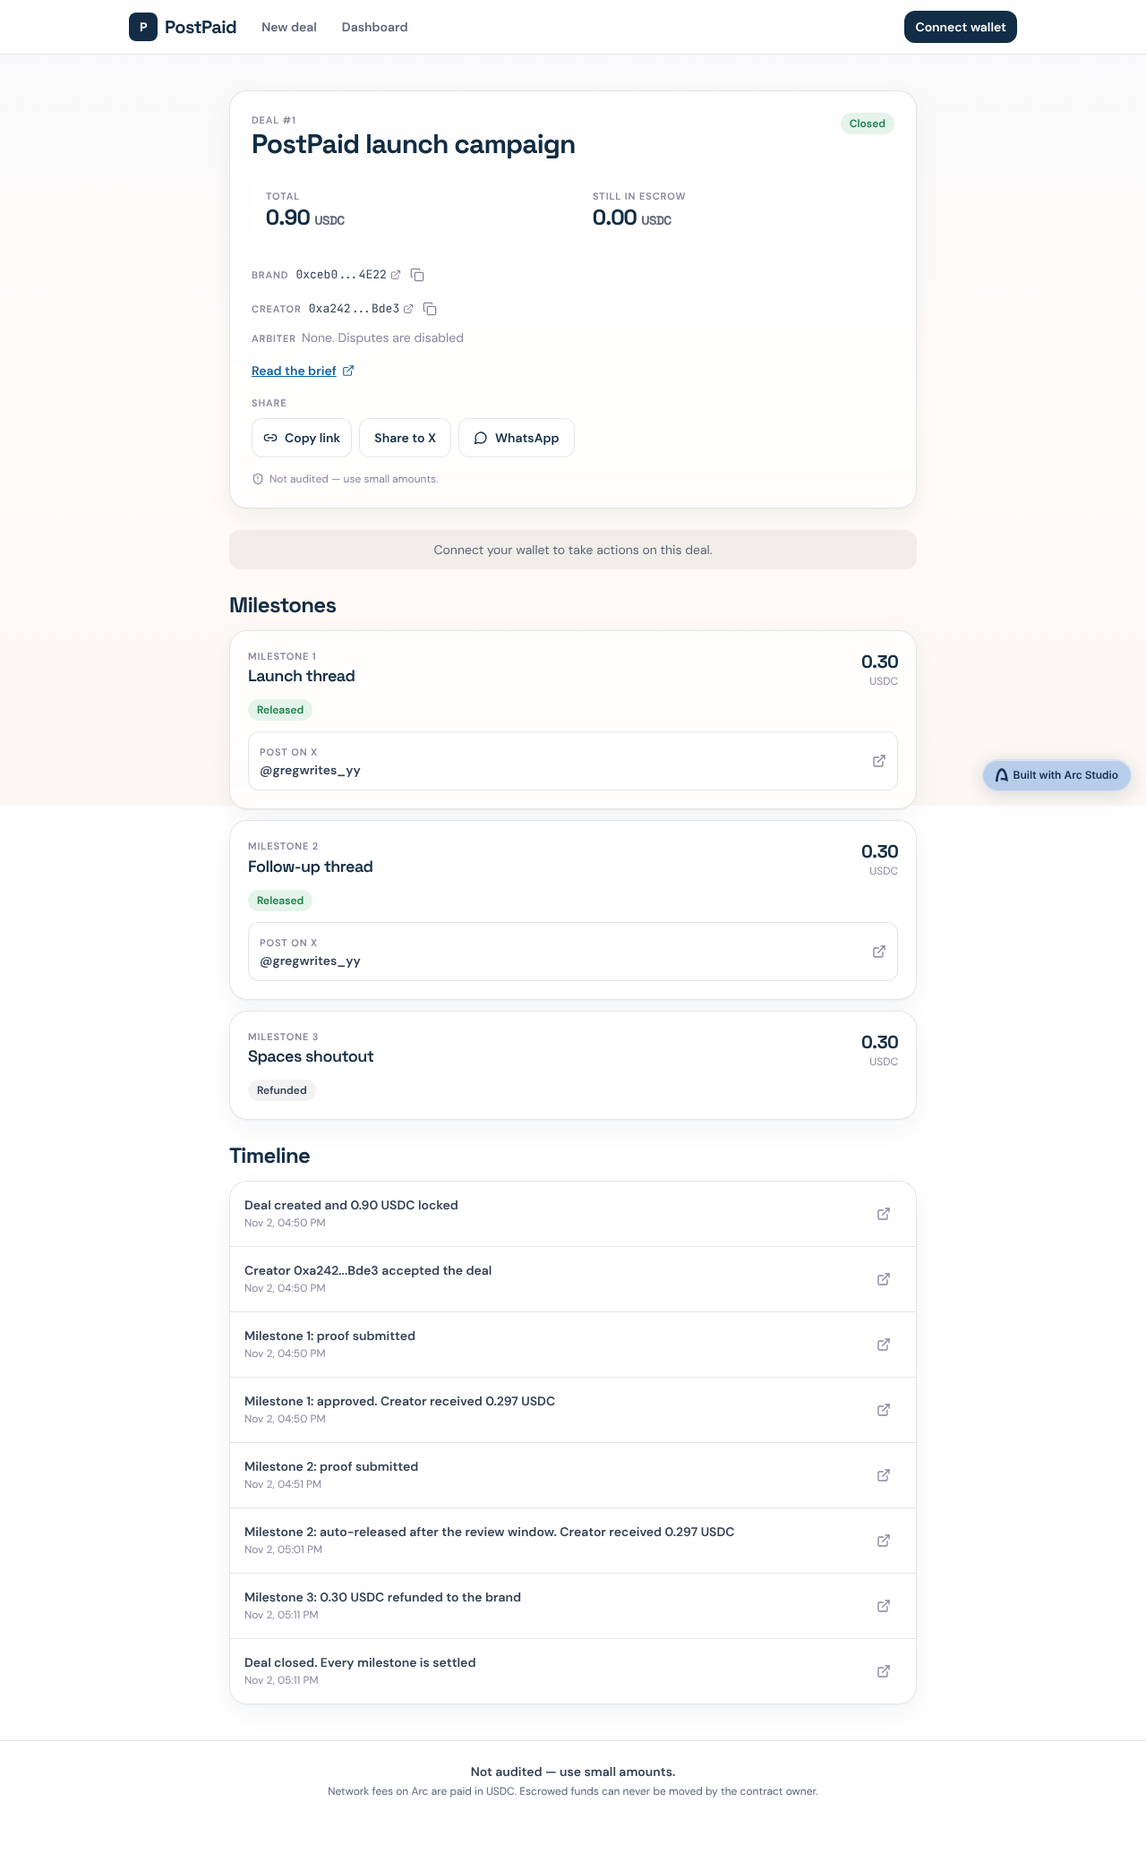
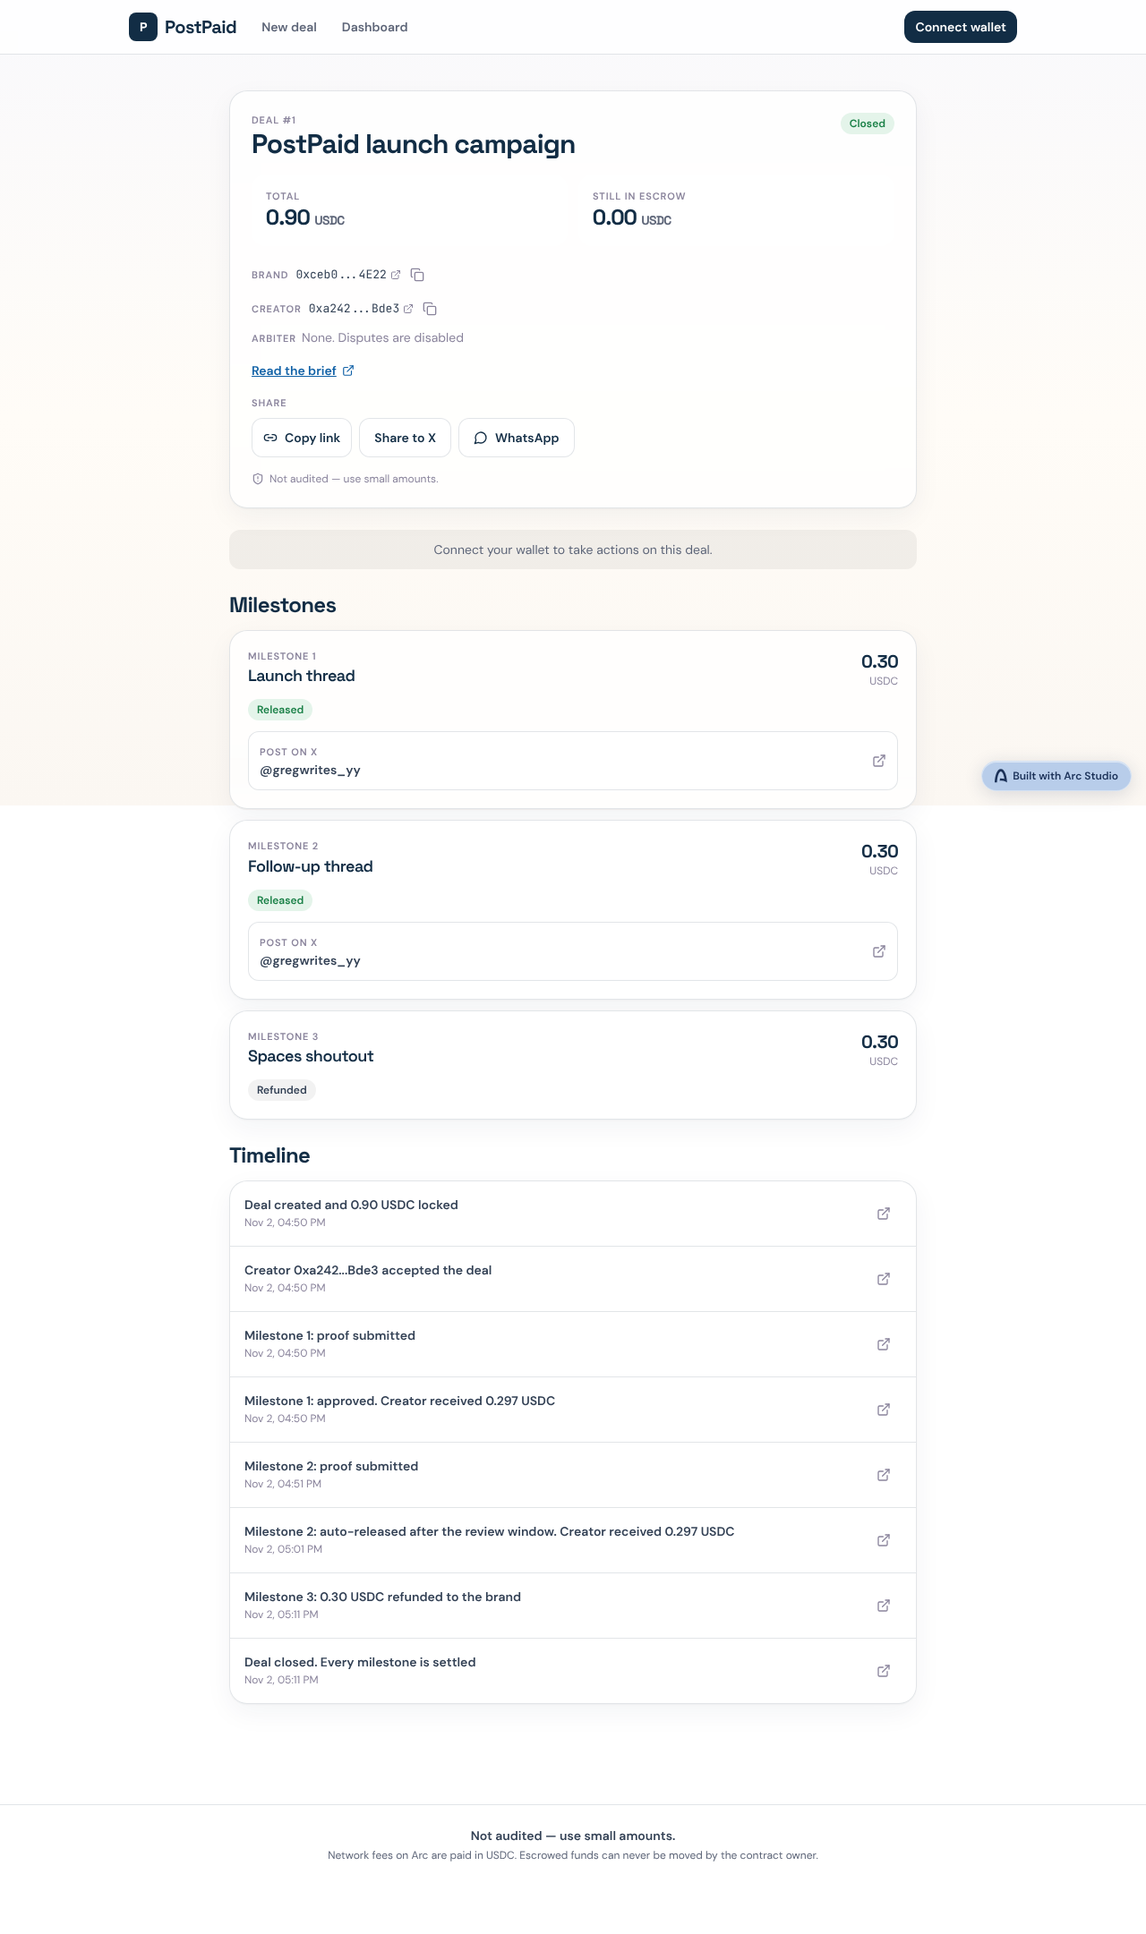
Phase 5: UI polish from Studio (no mainnet RPC, badge, balance label); re-tested
Claude-Session: https://claude.ai/code/session_01YVrxrgoSNH8RJ6EuyzHLt6

diff --git a/src/components/ConnectButton.tsx b/src/components/ConnectButton.tsx
@@ -1,0 +1,114 @@
+import { useState } from 'react'
+import { useAccount, useConnect, useDisconnect, type Connector } from 'wagmi'
+import { Check, Copy, LogOut, Wallet } from 'lucide-react'
+import { toast } from 'sonner'
+import { ACTIVE_CHAIN } from '@/postpaid'
+import { shortAddress } from '@/lib/format'
+import { Button } from './ui'
+import { Modal } from './Modal'
+
+/**
+ * Wallet connect built on wagmi only. It deliberately avoids ConnectKit's button and profile views,
+ * which look up ENS names and avatars on Ethereum mainnet.
+ */
+export function ConnectButton({ size = 'sm', className }: { size?: 'md' | 'sm'; className?: string }) {
+  const { address, isConnected, isConnecting } = useAccount()
+  const { connectors, connectAsync, isPending } = useConnect()
+  const { disconnect } = useDisconnect()
+  const [picker, setPicker] = useState(false)
+  const [menu, setMenu] = useState(false)
+  const [copied, setCopied] = useState(false)
+
+  const options = connectors.filter((c) => c.id !== 'injected' || connectors.length === 1)
+
+  async function connectWith(connector: Connector) {
+    try {
+      await connectAsync({ connector, chainId: ACTIVE_CHAIN.id })
+      setPicker(false)
+    } catch (e) {
+      const text = e instanceof Error ? e.message.toLowerCase() : ''
+      if (text.includes('provider not found') || text.includes('not found')) {
+        toast.error('No browser wallet found. Install MetaMask or Rabby and reload.')
+      } else if (!text.includes('rejected') && !text.includes('denied')) {
+        toast.error('Could not connect your wallet. Please try again.')
+      }
+    }
+  }
+
+  if (isConnected && address) {
+    return (
+      <div className="relative">
+        <Button variant="secondary" size={size} className={className} onClick={() => setMenu((m) => !m)} aria-expanded={menu}>
+          <span className="mono text-[13px]">{shortAddress(address)}</span>
+        </Button>
+        {menu && (
+          <>
+            <button type="button" aria-label="Close menu" className="fixed inset-0 z-40 cursor-default" onClick={() => setMenu(false)} />
+            <div className="absolute right-0 z-50 mt-2 w-52 rounded-2xl border border-line bg-white p-1.5 shadow-xl">
+              <button
+                type="button"
+                className="flex min-h-[44px] w-full items-center gap-2 rounded-xl px-3 text-sm font-semibold hover:bg-black/5"
+                onClick={() => {
+                  void navigator.clipboard?.writeText(address).then(() => {
+                    setCopied(true)
+                    setTimeout(() => setCopied(false), 1500)
+                  })
+                }}
+              >
+                {copied ? <Check className="h-4 w-4 text-success" /> : <Copy className="h-4 w-4" />} {copied ? 'Copied' : 'Copy address'}
+              </button>
+              <button
+                type="button"
+                className="flex min-h-[44px] w-full items-center gap-2 rounded-xl px-3 text-sm font-semibold hover:bg-black/5"
+                onClick={() => {
+                  disconnect()
+                  setMenu(false)
+                }}
+              >
+                <LogOut className="h-4 w-4" /> Disconnect
+              </button>
+            </div>
+          </>
+        )}
+      </div>
+    )
+  }
+
+  return (
+    <>
+      <Button
+        size={size}
+        className={className}
+        loading={isConnecting || isPending}
+        onClick={() => {
+          if (options.length === 1) void connectWith(options[0])
+          else setPicker(true)
+        }}
+      >
+        Connect wallet
+      </Button>
+      {picker && (
+        <Modal title="Connect a wallet" onClose={() => setPicker(false)}>
+          {options.length === 0 ? (
+            <p className="text-sm text-muted">No browser wallet found. Install MetaMask or Rabby, then reload this page.</p>
+          ) : (
+            <ul className="space-y-2">
+              {options.map((c) => (
+                <li key={c.uid}>
+                  <button
+                    type="button"
+                    onClick={() => void connectWith(c)}
+                    className="flex min-h-[48px] w-full items-center gap-3 rounded-xl border border-line px-3 text-left text-[15px] font-semibold hover:bg-black/5"
+                  >
+                    {c.icon ? <img src={c.icon} alt="" className="h-7 w-7 rounded-md" /> : <Wallet className="h-5 w-5" aria-hidden />}
+                    {c.name}
+                  </button>
+                </li>
+              ))}
+            </ul>
+          )}
+        </Modal>
+      )}
+    </>
+  )
+}

diff --git a/src/main.tsx b/src/main.tsx
@@ -17,55 +17,14 @@ import { StrictMode } from 'react'
 import { createRoot } from 'react-dom/client'
 import { WagmiProvider } from 'wagmi'
 import { QueryClient, QueryClientProvider } from '@tanstack/react-query'
-import { ConnectKitProvider } from 'connectkit'
 import { Toaster } from 'sonner'
 import { config } from './config'
 import App from './App'
 import { installShareSync } from './lib/share'
+import { StudioBadge } from './components/StudioBadge'
 import './index.css'
 
 const queryClient = new QueryClient()
-
-// Studio logo SVG
-const StudioLogo = () => (
-  <svg width="14" height="16" viewBox="0 0 20 22" fill="none" xmlns="http://www.w3.org/2000/svg">
-    <path d="M0 21.5001C0.167192 16.2366 1.02308 11.3243 2.45378 7.50459C4.26573 2.66517 6.88869 0 9.83904 0C12.7894 0 15.412 2.66517 17.2243 7.50459C18.1669 10.0216 18.8605 13.0121 19.2713 16.2655C19.3081 16.556 19.3393 16.8513 19.3714 17.146C19.3819 17.1642 19.3881 17.1811 19.386 17.1949C19.386 17.1949 19.6275 18.7674 19.6788 21.5001H19.6515C19.2934 21.1937 15.0694 17.7329 8.06739 18.735C8.17304 17.4996 8.31833 16.2974 8.50603 15.1452C8.51562 15.0863 8.52671 15.0294 8.53649 14.9709C11.2828 14.8846 13.6866 15.2171 15.5299 15.6529C15.5231 15.6073 15.5173 15.5603 15.5103 15.5149C15.1314 13.0547 14.5724 10.8024 13.8517 8.87761C12.6732 5.73037 11.1354 3.77496 9.83904 3.77496C8.54269 3.77496 7.00493 5.73037 5.82649 8.87761C5.54123 9.63889 5.28154 10.4508 5.04866 11.3071C4.72126 12.507 4.44621 13.7934 4.22654 15.1451C3.90141 17.1412 3.69827 19.2821 3.62345 21.5001H0Z" fill="currentColor"/>
-  </svg>
-)
-
-// Studio watermark component - links back to Studio
-const StudioWatermark = () => (
-  <a
-    href="https://studio.arc.io/"
-    target="_blank"
-    rel="noopener noreferrer"
-    style={{
-      position: 'fixed',
-      bottom: '16px',
-      right: '16px',
-      display: 'flex',
-      alignItems: 'center',
-      gap: '6px',
-      padding: '8px 14px',
-      fontSize: '12px',
-      fontWeight: 600,
-      fontFamily: 'system-ui, -apple-system, sans-serif',
-      color: '#1B3158',
-      textDecoration: 'none',
-      cursor: 'pointer',
-      background: 'rgba(172, 198, 233, 0.85)',
-      backdropFilter: 'blur(12px) saturate(180%)',
-      WebkitBackdropFilter: 'blur(12px) saturate(180%)',
-      borderRadius: '20px',
-      border: '1px solid rgba(255, 255, 255, 0.4)',
-      zIndex: 9999,
-      boxShadow: '0 4px 20px rgba(27, 49, 88, 0.15), inset 0 1px 0 rgba(255, 255, 255, 0.5)',
-    }}
-  >
-    <StudioLogo />
-    Built with Arc Studio
-  </a>
-)
 
 installShareSync()
 
@@ -73,11 +32,9 @@ createRoot(document.getElementById('root')!).render(
   <StrictMode>
     <WagmiProvider config={config}>
       <QueryClientProvider client={queryClient}>
-        <ConnectKitProvider>
-          <App />
-          <StudioWatermark />
-          <Toaster position="top-center" />
-        </ConnectKitProvider>
+        <App />
+        <StudioBadge variant="floating" />
+        <Toaster position="top-center" />
       </QueryClientProvider>
     </WagmiProvider>
   </StrictMode>,

diff --git a/src/components/Layout.tsx b/src/components/Layout.tsx
@@ -1,13 +1,15 @@
 import { Link, NavLink, Outlet } from 'react-router-dom'
-import { ConnectKitButton } from 'connectkit'
 import { useAccount, useSwitchChain } from 'wagmi'
 import { TokenUSDC } from '@web3icons/react'
 import { toast } from 'sonner'
 import { ACTIVE_CHAIN } from '@/postpaid'
 import { useUsdc } from '@/hooks/useEscrow'
-import { fmtUsdc } from '@/lib/format'
+import { formatUnitsFixed, formatUsdc } from '@/onchain-money'
+import { USDC_DECIMALS } from '@/postpaid'
 import { describeError } from '@/lib/errors'
 import { Button } from './ui'
+import { ConnectButton } from './ConnectButton'
+import { StudioBadge } from './StudioBadge'
 
 function Logo() {
   return (
@@ -27,10 +29,10 @@ function UsdcBalance() {
   return (
     <span
       className="hidden items-center gap-1.5 rounded-full border border-line bg-white/70 px-3 py-1.5 text-sm font-semibold tabular-nums sm:inline-flex"
-      title="Your USDC balance. Network fees are also paid in USDC."
+      title={data ? `${formatUsdc(data.balance)} USDC. Network fees are also paid in USDC.` : 'Your USDC balance. Network fees are also paid in USDC.'}
     >
       <TokenUSDC variant="branded" size={16} />
-      {data ? fmtUsdc(data.balance) : '...'}
+      {data ? `${formatUnitsFixed(data.balance, USDC_DECIMALS, 2)} USDC` : '...'}
     </span>
   )
 }
@@ -82,13 +84,7 @@ export function Layout() {
           </div>
           <div className="flex items-center gap-2">
             <UsdcBalance />
-            <ConnectKitButton.Custom>
-              {({ isConnected, show, truncatedAddress, isConnecting }) => (
-                <Button variant={isConnected ? 'secondary' : 'primary'} size="sm" onClick={show} loading={isConnecting}>
-                  {isConnected ? truncatedAddress : 'Connect wallet'}
-                </Button>
-              )}
-            </ConnectKitButton.Custom>
+            <ConnectButton />
           </div>
         </div>
         <nav className="flex border-t border-line px-2 sm:hidden" aria-label="Main mobile">
@@ -101,12 +97,15 @@ export function Layout() {
         </nav>
         <WrongNetworkBanner />
       </header>
-      <main className="mx-auto w-full max-w-5xl flex-1 px-4 py-6 sm:py-10">
+      <main className="mx-auto w-full max-w-5xl flex-1 px-4 py-6 sm:pb-28 sm:pt-10">
         <Outlet />
       </main>
-      <footer className="border-t border-line px-4 pb-20 pt-6 text-center text-sm text-muted">
+      <footer className="border-t border-line px-4 pb-6 pt-6 text-center text-sm text-muted sm:pb-20">
         <p className="font-semibold text-ink-2">Not audited — use small amounts.</p>
         <p className="mt-1 text-xs">Network fees on Arc are paid in USDC. Escrowed funds can never be moved by the contract owner.</p>
+        <div className="mt-4 flex justify-center sm:hidden">
+          <StudioBadge variant="inline" />
+        </div>
       </footer>
     </div>
   )

diff --git a/src/components/StudioBadge.tsx b/src/components/StudioBadge.tsx
@@ -1,0 +1,37 @@
+import clsx from 'clsx'
+
+function StudioLogo() {
+  return (
+    <svg width="14" height="16" viewBox="0 0 20 22" fill="none" xmlns="http://www.w3.org/2000/svg" aria-hidden>
+      <path d="M0 21.5001C0.167192 16.2366 1.02308 11.3243 2.45378 7.50459C4.26573 2.66517 6.88869 0 9.83904 0C12.7894 0 15.412 2.66517 17.2243 7.50459C18.1669 10.0216 18.8605 13.0121 19.2713 16.2655C19.3081 16.556 19.3393 16.8513 19.3714 17.146C19.3819 17.1642 19.3881 17.1811 19.386 17.1949C19.386 17.1949 19.6275 18.7674 19.6788 21.5001H19.6515C19.2934 21.1937 15.0694 17.7329 8.06739 18.735C8.17304 17.4996 8.31833 16.2974 8.50603 15.1452C8.51562 15.0863 8.52671 15.0294 8.53649 14.9709C11.2828 14.8846 13.6866 15.2171 15.5299 15.6529C15.5231 15.6073 15.5173 15.5603 15.5103 15.5149C15.1314 13.0547 14.5724 10.8024 13.8517 8.87761C12.6732 5.73037 11.1354 3.77496 9.83904 3.77496C8.54269 3.77496 7.00493 5.73037 5.82649 8.87761C5.54123 9.63889 5.28154 10.4508 5.04866 11.3071C4.72126 12.507 4.44621 13.7934 4.22654 15.1451C3.90141 17.1412 3.69827 19.2821 3.62345 21.5001H0Z" fill="currentColor" />
+    </svg>
+  )
+}
+
+/**
+ * "Built with Arc Studio" badge. `floating` is fixed bottom-right on screens 640px and wider;
+ * `inline` is static (used inside the footer) and only shows below 640px.
+ */
+export function StudioBadge({ variant }: { variant: 'floating' | 'inline' }) {
+  return (
+    <a
+      href="https://studio.arc.io/"
+      target="_blank"
+      rel="noopener noreferrer"
+      className={clsx(
+        'items-center gap-1.5 rounded-full px-3.5 py-2 text-xs font-semibold text-[#1B3158] no-underline',
+        variant === 'floating' ? 'fixed bottom-4 right-4 z-[9999] hidden sm:flex' : 'inline-flex sm:hidden',
+      )}
+      style={{
+        background: 'rgba(172, 198, 233, 0.85)',
+        backdropFilter: 'blur(12px) saturate(180%)',
+        WebkitBackdropFilter: 'blur(12px) saturate(180%)',
+        border: '1px solid rgba(255, 255, 255, 0.4)',
+        boxShadow: '0 4px 20px rgba(27, 49, 88, 0.15), inset 0 1px 0 rgba(255, 255, 255, 0.5)',
+      }}
+    >
+      <StudioLogo />
+      Built with Arc Studio
+    </a>
+  )
+}

diff --git a/src/config.ts b/src/config.ts
@@ -4,7 +4,6 @@
  */
 
 import { http, createConfig } from 'wagmi'
-import { mainnet } from 'wagmi/chains'
 import { arc, arcTestnet } from 'viem/chains'
 import { ACTIVE_CHAIN } from './postpaid'
 import { injected } from 'wagmi/connectors'
@@ -14,11 +13,10 @@ import { registerChain } from './tracing'
 registerChain(ACTIVE_CHAIN.id, ACTIVE_CHAIN.rpcUrls.default.http[0])
 
 export const config = createConfig({
-  chains: [ACTIVE_CHAIN, ACTIVE_CHAIN.id === arc.id ? arcTestnet : arc, mainnet], // mainnet needed for ENS resolution
+  chains: [ACTIVE_CHAIN, ACTIVE_CHAIN.id === arc.id ? arcTestnet : arc], // Arc only: no Ethereum mainnet, no ENS lookups
   connectors: [injected()],
   transports: {
     [arc.id]: http(),
     [arcTestnet.id]: http(),
-    [mainnet.id]: http(), // ENS resolution uses mainnet
   },
 })

diff --git a/src/pages/NewDeal.tsx b/src/pages/NewDeal.tsx
@@ -1,6 +1,6 @@
 import { useMemo, useState } from 'react'
 import { useNavigate } from 'react-router-dom'
-import { ConnectKitButton } from 'connectkit'
+import { ConnectButton } from '@/components/ConnectButton'
 import { erc20Abi } from 'viem'
 import { useAccount } from 'wagmi'
 import { Plus, Trash2 } from 'lucide-react'
@@ -128,7 +128,7 @@ export function NewDeal() {
       <div className="card mx-auto max-w-md space-y-4 p-8 text-center">
         <h1 className="display text-2xl font-bold">Create a deal</h1>
         <p className="text-pretty text-sm text-muted">Connect the brand wallet that will lock the USDC.</p>
-        <ConnectKitButton />
+        <ConnectButton size="md" />
       </div>
     )
   }

diff --git a/src/pages/Dashboard.tsx b/src/pages/Dashboard.tsx
@@ -1,6 +1,6 @@
 import { useMemo, useState } from 'react'
 import { Link } from 'react-router-dom'
-import { ConnectKitButton } from 'connectkit'
+import { ConnectButton } from '@/components/ConnectButton'
 import { useAccount } from 'wagmi'
 import { ChevronRight } from 'lucide-react'
 import clsx from 'clsx'
@@ -91,7 +91,7 @@ export function Dashboard() {
       <div className="card mx-auto max-w-md space-y-4 p-8 text-center">
         <h1 className="display text-2xl font-bold">Your dashboard</h1>
         <p className="text-pretty text-sm text-muted">Connect your wallet to see your deals and withdraw your USDC.</p>
-        <ConnectKitButton />
+        <ConnectButton size="md" />
       </div>
     )
   }

diff --git a/docs/ARC_STUDIO_LOG.md b/docs/ARC_STUDIO_LOG.md
@@ -12,6 +12,7 @@ Every Arc Studio interaction: prompt → what Studio produced → what we change
 | 2 | 2026-11-02 | 2 — Tests | [`02-tests.txt`](studio-prompts/02-tests.txt) + [`TEST_PLAN.md`](spec/TEST_PLAN.md) | `MockUSDC`, `FeeOnTransferUSDC`, `PostPaidEscrow.t.sol` (147 unit+fuzz), `PostPaidEscrow.invariant.t.sol` (7, handler-based), `ArcFork.t.sol` (1); `foundry.toml` gains fuzz 1000 / invariant 256×64. **155/155 green, 100% coverage** on the contract. No contract bugs found; contract untouched. Trace `01a19ce9-5224-757a-a01e-35f751e3796b`. | None. Re-ran locally under Arc rules: 155/155 pass, same coverage; fork test passes against real Arc mainnet USDC. Spot-reviewed the demo test (balances asserted at each step, contract drained to 0) and the invariants (terminal-milestone hash snapshot, conservation vs. real balance). | _todo_ |
 | 3 | 2026-11-02 | 3 — Testnet deploy | [`03-testnet-deploy.txt`](studio-prompts/03-testnet-deploy.txt) | Ran tests (green), deployed `PostPaidEscrow` to Arc Testnet at `0x4e51c6f8…cfe5` (tx `0xb762d3b1…bed88`, block 70378581), read back constructor state, wrote `contracts/contract-metadata/PostPaidEscrow.json`. Couldn't set maxFeePerGas itself; landed at 21.1 gwei. Trace `01a19d21-18b7-71b6-8b66-bd1449be86d4`. | Independently re-checked receipt, state and bytecode on-chain. Verified source on testnet Blockscout ourselves (`scripts/verify-blockscout.sh`). | _todo_ |
 | 4 | 2026-11-02 | 4 — App | [`04-app.txt`](studio-prompts/04-app.txt) + [`APP_SPEC.md`](spec/APP_SPEC.md) | Full frontend in `src/` (Vite + React + wagmi + viem + ConnectKit + Tailwind): `/`, `/new`, `/deal/:id`, `/dashboard`, 404; role-aware actions from `milestoneActions`; gas floor 25 gwei; error decoding; disclosures; status filter; `vercel.json` + `public/_redirects`; env config in `src/postpaid.ts`. Lint/typecheck/build clean in Studio. Trace `01a19d41-74c3-7128-bbdd-cf2979a74396`. | None to the code yet. Locally: build OK; typecheck/lint errors only in Studio's platform script `scripts/compass-deploy.ts` (needs a Studio-only package). Headless Chromium: 5 pages × desktop/mobile, 0 app console errors, no horizontal scroll, live testnet data correct. **End-to-end UI test on an Arc-mode testnet fork** (`scripts/e2e-fork.cjs`): create (approve+create) → accept → submit → approve & pay → withdraw, passed 3×. Follow-ups queued: drop mainnet ENS lookups (calls `ethereum.reth.rs`), move the floating Studio badge off content on mobile, add "USDC" to the balance chip. | `docs/screenshots/` |
+| 5 | 2026-11-02 | 5 — Polish + hosting | [`05-polish-and-vercel.txt`](studio-prompts/05-polish-and-vercel.txt) | Removed Ethereum mainnet + ENS lookups (replaced ConnectKit with a wagmi-only `ConnectButton`); badge moved into the footer on mobile (`StudioBadge`); balance chip reads "x.xx USDC". Could **not** deploy to Vercel itself: that's the Studio UI's Integrations → Deploy to Vercel button. Trace `01a19d51-bd8b-776b-b048-73416c4fe68b`. | Locally: build OK; bundle has no Ethereum-mainnet RPC; 10 page checks with 0 errors; E2E fork flow passed again with **0 console errors and 0 failed requests**. | `docs/screenshots/` |
 
 ### #2 — Coverage summary (`arc-forge coverage --report summary`, re-run locally)
 | File | % Lines | % Statements | % Branches | % Funcs |

diff --git a/PROGRESS.md b/PROGRESS.md
@@ -12,15 +12,16 @@
 | 2 — Tests | ✅ done: 155/155 green, 100% coverage |
 | 3 — Security & testnet | ✅ done: SECURITY.md, testnet deploy + verified, full demo run on testnet (11 txs) |
 | 4 — App | ✅ built in Studio; E2E-tested on a testnet fork (create → accept → submit → approve → withdraw) |
-| 5 — Mainnet deploy | — |
+| 5 — Mainnet deploy | 🔄 UI polished ✅, deploy script rehearsed ✅; waiting on Greg: Vercel deploy click, deploy option A/B, mainnet USDC |
 | 6 — Mainnet demo | — |
 | 7 — Ship | — |
 
 ## Next action
 
-1. Greg: say "go" for Phase 5. Before that, connect **Vercel** (free) in Arc Studio → Integrations menu → "Connect Vercel", so Studio can host the app at a public URL.
-2. Greg (Phase 5 → 6): an **EVM wallet B** (0x…) and **~2 USDC on Arc mainnet** in wallet A (+ ~0.3 in B).
-3. Claude (Phase 5): one Studio turn for the small UI fixes (ENS lookups, badge overlap, balance label); public deploy of the **testnet** build first, so Greg can click through with a real wallet; then prepare the mainnet deploy (Greg signs), verify the source, switch the env to mainnet and redeploy.
+1. Greg: in Arc Studio, open **Integrations → Deploy to Vercel** (leave env vars empty, so it builds for testnet) and send Claude the URL. Claude checks it in a fresh browser, then Greg clicks through on testnet with wallet A (faucet USDC).
+2. Greg: choose the mainnet deploy option in `docs/MAINNET_DEPLOY.md`: **A** (browser-wallet deploy page, needs OK) or **B** (Arc Foundry CLI with an encrypted keystore).
+3. Greg: get **≥ 2 USDC on Arc mainnet** into wallet A (deploy ≈ 0.07 + demo 0.90 + gas), and create an **EVM wallet B** (0x…) with ≈ 0.30 USDC.
+4. Claude, after the deploy: verify bytecode and constructor on-chain, verify the source with `scripts/verify-blockscout.sh mainnet`, set the Vercel env (`VITE_CHAIN=arc`, address, block), redeploy, re-test.
 
 ## Testnet wallets (throwaway, testnet only)
 Encrypted keystores in `~/.foundry/keystores/pp-testnet-{brand,creator,keeper}`, with the password in `~/.postpaid-testnet/pw` (0600, never committed). They live only in this container: if it's recycled, make new ones (`arc-cast wallet new`) and re-fund them. They must never hold mainnet funds.
